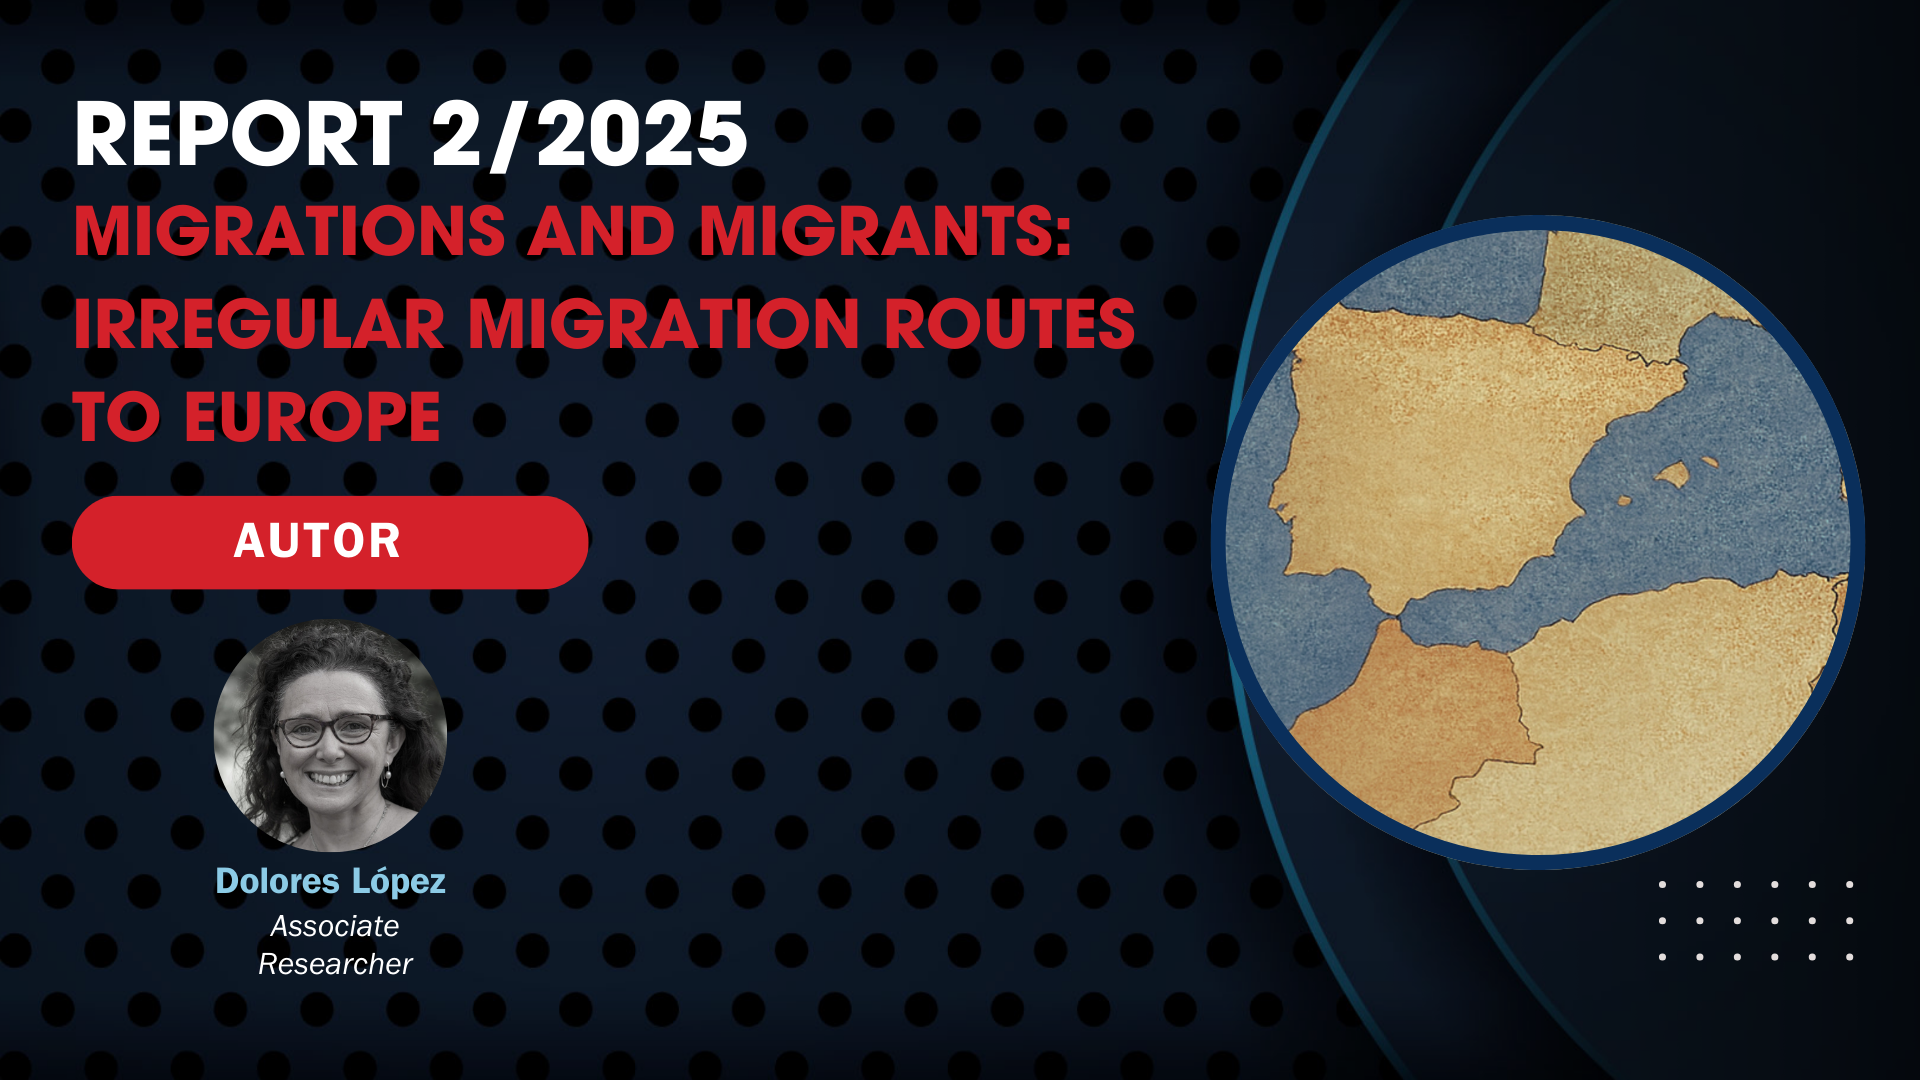
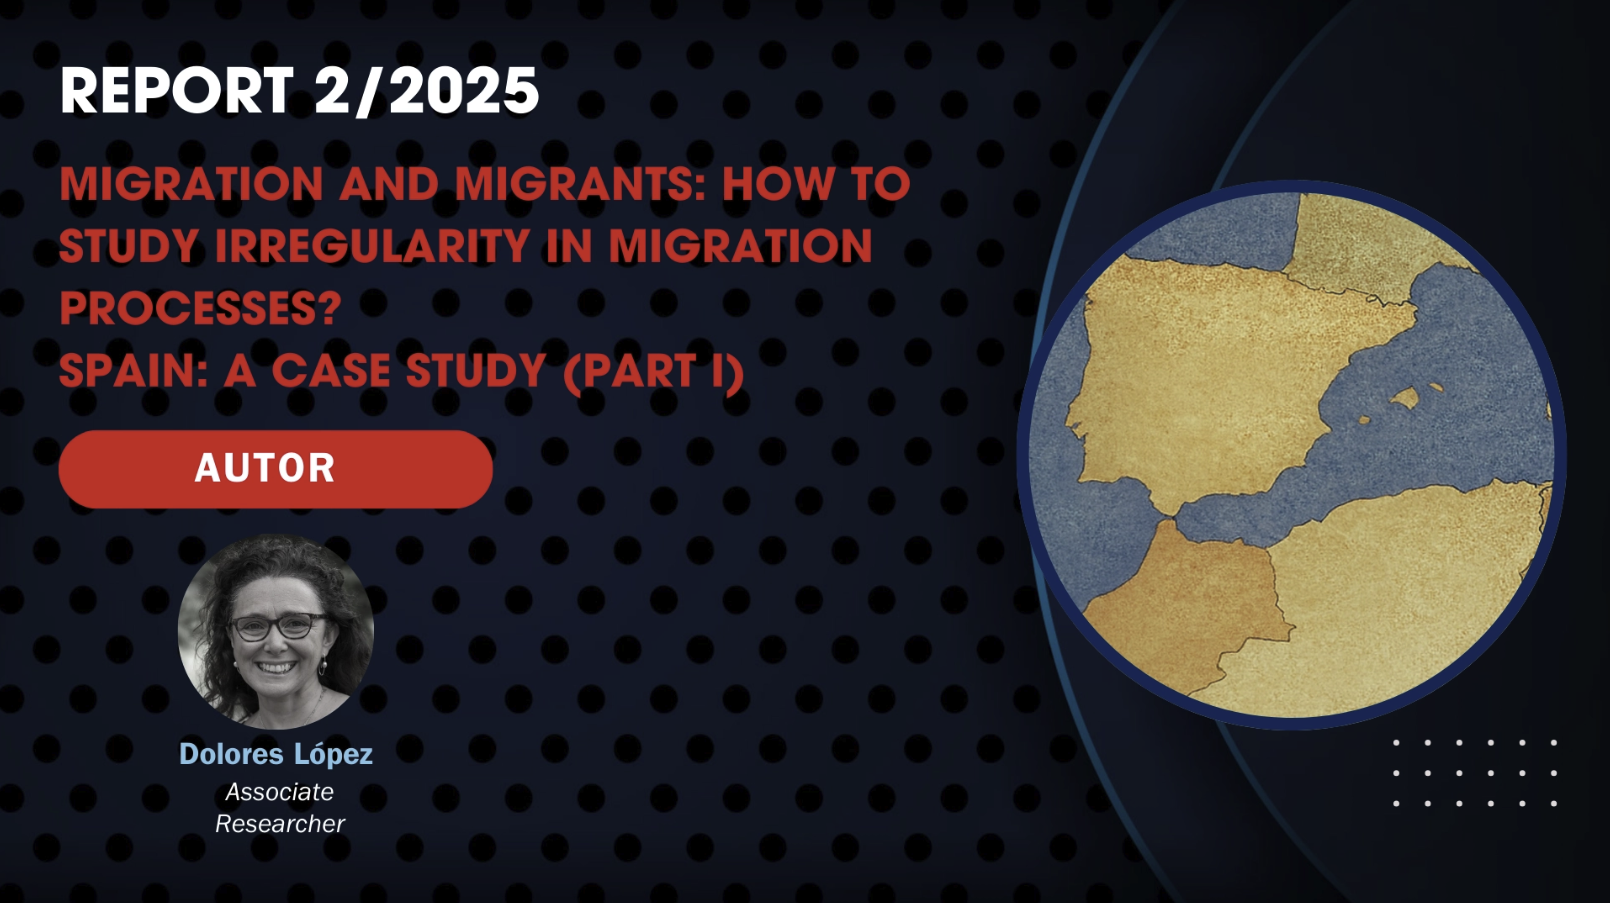
nuevo informe 10 marzo 2026

Changed region(s): [[0.0311, 0.186, 0.5901, 0.9302], [0.6211, 0.2171, 0.9938, 0.8062], [0.0311, 0.062, 0.4037, 0.155]]

diff --git a/src/data/articles.ts b/src/data/articles.ts
@@ -425,10 +425,10 @@ export const articles: Article[] = [
         title_en: 'Migration and Migrants: How to Study Irregularity in Migration Processes?. Spain: A Case Study (Part I)',
         subtitle: 'Un análisis exhaustivo sobre la evolución, dinámicas y desafíos de la migración irregular hacia España en el contexto europeo (2015-2025).',
         subtitle_en: 'A comprehensive analysis of the evolution, dynamics, and challenges of irregular migration to Spain within the European context (2015-2025).',
-        heroImage: '/images/informe-es-rutasmigratorias.jpg',
-        heroImage_en: '/images/informe-en-rutasmigratorias.jpg',
-        mainImage: '/images/informe-es-rutasmigratorias.jpg',
-        mainImage_en: '/images/informe-en-rutasmigratorias.jpg',
+        heroImage: '/images/informe-es-rutasmigratorias.png',
+        heroImage_en: '/images/informe-en-rutasmigratorias.png',
+        mainImage: '/images/informe-es-rutasmigratorias.png',
+        mainImage_en: '/images/informe-en-rutasmigratorias.png',
         mainImageCaption: 'Portada del informe: Migraciones y Migrantes.',
         mainImageCaption_en: 'Report cover: Migrations and Migrants.',
         publishDate: '22 Dec 2025',
